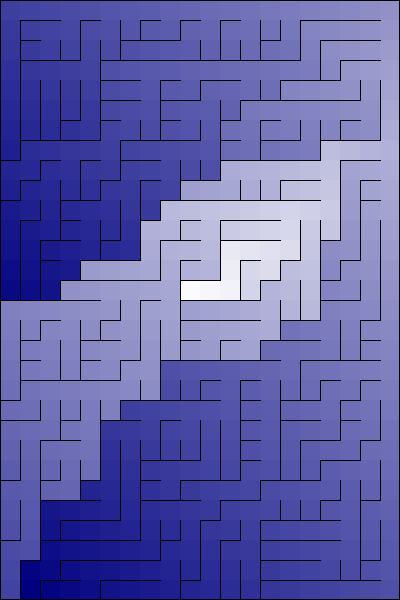
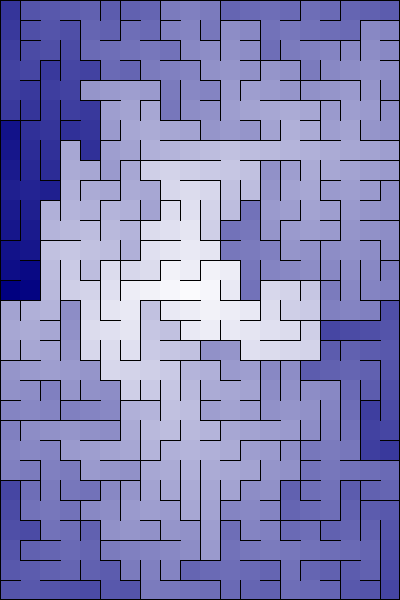
prim (for now)

diff --git a/algorithms/prims.py b/algorithms/prims.py
@@ -3,38 +3,71 @@ from grid import Grid
 from grid import Cell
 
 class Prim():
+    def find_neighbors(self, cell, grid):
+        # Find available neighbors
+        neighbors = []
+        north = grid.get_north(cell)
+        south = grid.get_south(cell)
+        east = grid.get_east(cell)
+        west = grid.get_west(cell)
+
+        if not cell.exist_link(north) and north is not None:
+            neighbors.append(north)
+
+        if not cell.exist_link(south) and south is not None:
+            neighbors.append(south)
+
+        if not cell.exist_link(east) and east is not None:
+            neighbors.append(east)
+
+        if not cell.exist_link(west) and west is not None:
+            neighbors.append(west)
+
+        return neighbors
+
+    def min_key(self, dic):
+        minimum = random.choice(list(dic))
+        for item in dic:
+            if dic[item] < dic[minimum]:
+                minimum = item
+        return minimum
+
+    def min_element(self, arr, costs):
+        # Return the element with the lowest cost in the array
+        minimum = random.choice(arr)
+        for i in range(len(arr)):
+            if costs[arr[i]] < costs[minimum]:
+                minimum = arr[i]
+        return minimum
+
     def generate(self, grid):
+        # Arbitrary starting cell
         first = grid.random_cell()
         active = [first]
 
+        # Assign random costs to each cell (not edges)
+        costs = {}
+        for r in range(grid.rows):
+            for c in range(grid.cols):
+                cell = grid.grid[r][c]
+                costs[cell] = random.randint(1, 100)
+
         while len(active) > 0:
-            random_index = random.randint(0, len(active) - 1)
-            cell = active[random_index]
+            cell = self.min_element(active, costs)  # Cell with minimum cost
+            print(cell)
+            available_neighbors = self.find_neighbors(cell, grid)
 
-            north = grid.get_north(cell)
-            south = grid.get_south(cell)
-            east = grid.get_east(cell)
-            west = grid.get_west(cell)
-
-            available_neighbors = []
-
-            if not cell.exist_link(north) and north is not None:
-                available_neighbors.append(north)
-
-            if not cell.exist_link(south) and south is not None:
-                available_neighbors.append(south)
-
-            if not cell.exist_link(east) and east is not None:
-                available_neighbors.append(east)
-
-            if not cell.exist_link(west) and west is not None:
-                available_neighbors.append(west)
+            # Avoid duplicates
+            for i in range(len(available_neighbors)):
+                if available_neighbors[i] not in active:
+                    active.append(available_neighbors[i])
 
             if len(available_neighbors) > 0:
-                random_index = random.randint(0, len(available_neighbors) - 1)
-                neighbor = available_neighbors[random_index]
+                neighbor = self.min_element(active, costs)
                 cell.link(neighbor)
-                active.append(neighbor)
+                active.remove(neighbor)
+                active.extend(self.find_neighbors(neighbor, grid))
+
 
             else:
                 active.remove(cell)

diff --git a/ASCII_display.py b/ASCII_display.py
@@ -17,8 +17,8 @@ def main():
     # Sidewinder().generate(grid)
     # print("Sidewinder Algorithm: ")
 
-    # Prim().generate(grid)
-    # print("Prim's Algorithm: ")
+    Prim().generate(grid)
+    print("Prim's Algorithm: ")
 
     # Wilson().generate(grid)
     # print("Wilson's Algorithm: ")
@@ -27,8 +27,8 @@ def main():
     # kruskal.generate(grid)
     # print("Kruskal's Algorithm: ")
 
-    Recursive().generate(grid)
-    print("Recursive Backtracker Algorithm: ")
+    # Recursive().generate(grid)
+    # print("Recursive Backtracker Algorithm: ")
 
     grid.print_grid()
     print("Total amount of cells", grid.get_size())
@@ -36,9 +36,9 @@ def main():
     print("Turns", grid.get_turns())
     print("Crossroads", grid.get_crossroads())
     print("T-junctions", grid.get_tjunctions())
-    print("Terminals", grid.get_terminals()[0])
-    print("Terminal cells", grid.get_terminals()[1])
-    print("Number of terminal cells", len(grid.get_terminals()[1]))
+    print("Terminals", grid.get_terminals())
+    # print("Terminal cells", grid.get_terminals()[1])
+    # print("Number of terminal cells", len(grid.get_terminals()[1]))
 
 
 
